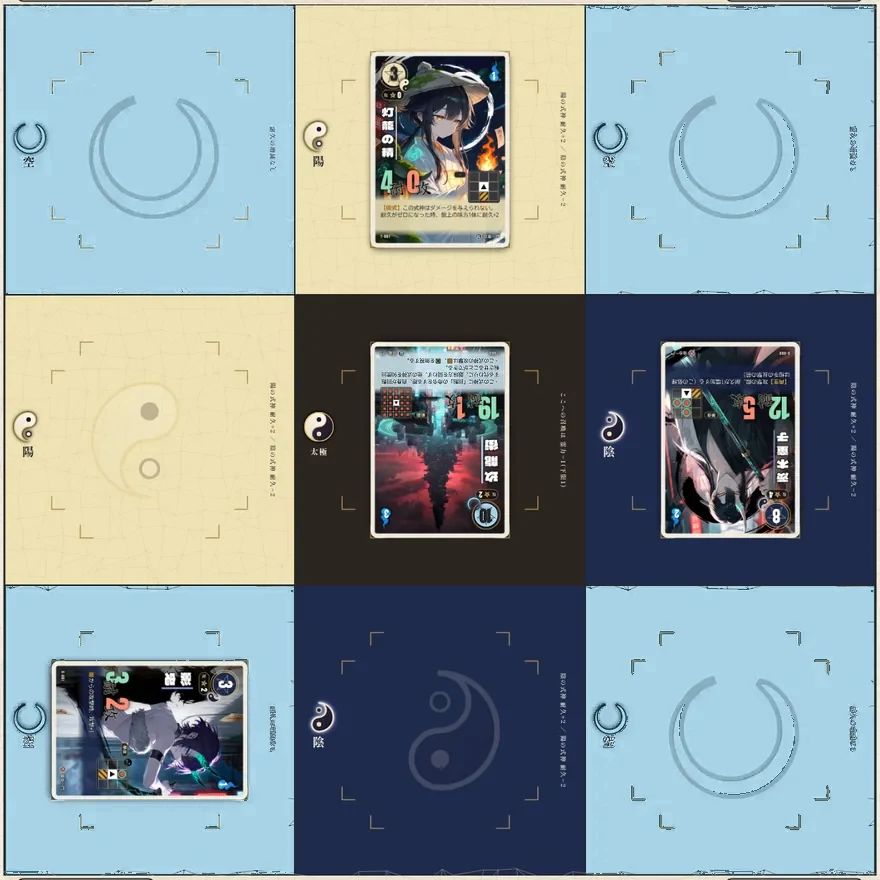
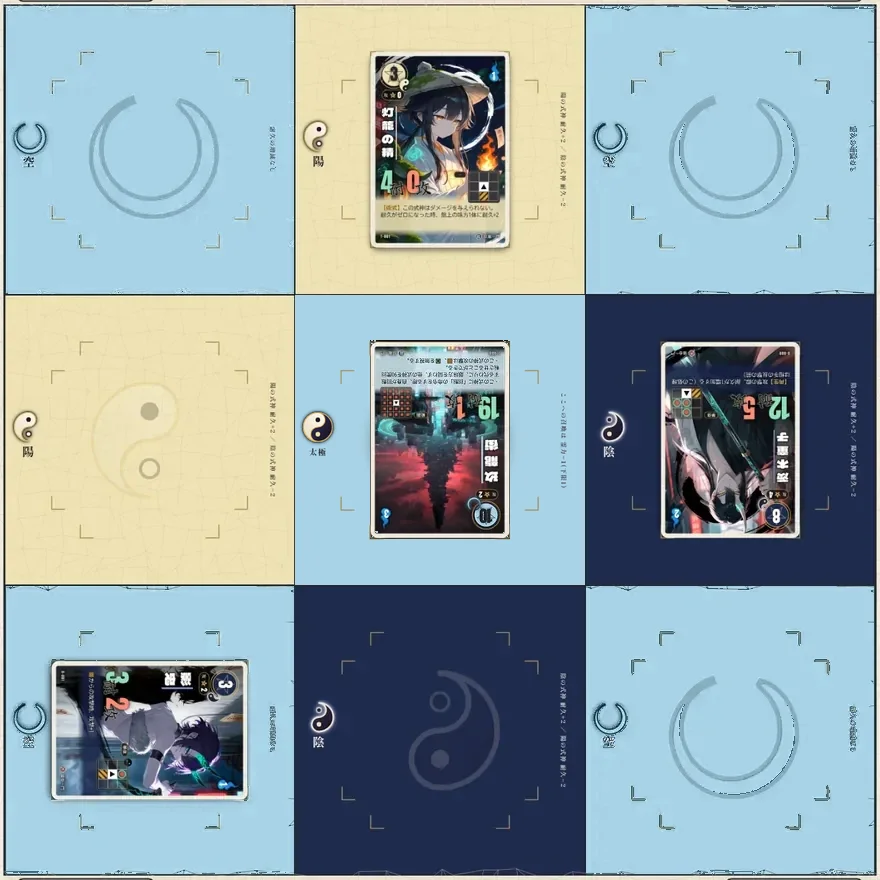
feat: 歓迎ページにお礼の手紙を足し、九宮盤の太極のマスを空と同じ色にそろえた
お礼の手紙(開発チームより)に、調整版で試行錯誤してきた話を入れた。
盤は11/10の1110a決定に合わせ、紙の盤の太極のマス(board/taiji.webp)とトップの盤の絵(site/board-play.webp)を空の水色に、
漆の盤(テスト卓)の太極の地を空と同じにした。

Claude-Session: https://claude.ai/code/session_01AZRZfPfzabCumbTpHPFUpt

Changed region(s): [[0.3375, 0.3375, 0.675, 0.675]]

diff --git a/sim2/play/supporter.html b/sim2/play/supporter.html
@@ -42,6 +42,20 @@
   </div>
 </section>
 
+<section class="w-sec s-letter-sec" aria-labelledby="s-letter-h">
+  <div class="s-letter">
+    <h2 id="s-letter-h"><span class="w-sec-kicker">開発チームより</span>この盤の向こうにいる、あなたへ。</h2>
+    <p>式神符陣のクラウドファンディングにご支援いただき、本当にありがとうございます。</p>
+    <p>式神符陣は、数人の仲間で、仕事のあいまや夜の時間を持ち寄って作ってきたゲームです。九つのマスに式神を一体ずつ置き、向きを考え、隙を突かれないかと迷う。そんな一手の重さを、紙のカードと九宮盤で手渡したくて、ここまで続けてきました。</p>
+    <p>そのゲームを「遊んでみたい」と思い、実際に応援してくださる方がいる。それが、私たちにとって何よりの励みです。いただいたご支援は、製品版のカード・九宮盤・箱をお届けするために、大切に使わせていただきます。</p>
+    <p>そして、このページの先にあるのは、私たちがずっと調整に使ってきた作業場そのものです。</p>
+    <p>霊力はいくつから始めるか。向きを変えるのに霊力をいくつ払うか。召喚したその場で攻撃させるか。この式神の耐久は、あと1つ多いか、少ないか。夜中に「これならどうだ」と数字を変えては指し、負けては悩み、また直す。数えきれないほどの案をこの盤の上で試し、ボツにし、少しずつ今の形にたどり着きました。設定の画面にずらりと並ぶ項目は、その試行錯誤の跡です。</p>
+    <p>その作業場を、今回ご支援くださった皆さまにだけ開きます。ルールやカードの数字を、どうぞ自由に変えてみてください。私たちが選ばなかった道の先に、もっと面白い式神符陣があるかもしれません。「強すぎる」「この式神が好き」「ここが分かりにくい」、どんな声でもうれしいです。いただいた声は、製品版の形に必ず活かします。</p>
+    <p>製品版をお届けするその日まで、ここで一緒に盤を囲んでいただけたら嬉しいです。</p>
+    <p class="s-sign">式神符陣 開発チーム 一同</p>
+  </div>
+</section>
+
 <section class="w-sec" aria-labelledby="s-can">
   <h2 id="s-can"><span class="w-sec-kicker">この版でできること</span>遊ぶ、変える、見る。</h2>
   <ol class="w-steps">

diff --git a/sim2/play/table.css b/sim2/play/table.css
@@ -37,7 +37,8 @@
   --lq-void: linear-gradient(160deg, #1e1b18, #131110);
   --lq-yin: linear-gradient(160deg, #1c2339, #10131d);
   --lq-yang: linear-gradient(160deg, #3b2418, #20140d);
-  --lq-taiji: radial-gradient(circle at 50% 50%, #241e16, #0f0d0b 72%);
+  /* 11/10: the 太極 cell takes the 空 ground (the paper board's 1110a decision) */
+  --lq-taiji: var(--lq-void);
   /* the placeholder face: ink-wash ground (shikigami: indigo, reigu: umber) */
   --glyph-ground: radial-gradient(120% 80% at 50% 110%, oklch(78% 0.1 85 / 0.14), transparent 60%), radial-gradient(120% 90% at 50% 26%, #2b3453 0%, #161b2b 55%, #0c0e15 100%);
   --glyph-ground-reigu: radial-gradient(120% 80% at 50% 110%, oklch(78% 0.1 85 / 0.18), transparent 60%), radial-gradient(120% 90% at 50% 26%, #4a3a26 0%, #2a2016 55%, #120e0a 100%);

diff --git a/sim2/play/supporter.css b/sim2/play/supporter.css
@@ -4,3 +4,7 @@
 .s-go { margin: 10px 0 0; font-size: 14px; }
 .s-go a { color: var(--gold); margin-right: 1em; }
 .w-foot p + p { margin-top: 6px; }
+.s-letter { max-width: 40em; margin: 0 auto; padding: 36px clamp(20px, 5vw, 48px); border: 1px solid var(--gold-line); border-radius: 8px; background: var(--lacquer); }
+.s-letter h2 { margin-top: 0; }
+.s-letter p { margin: 0 0 1.1em; color: var(--text); font-size: 16.5px; line-height: 2; }
+.s-letter .s-sign { margin: 1.6em 0 0; text-align: right; font-family: var(--font-mincho); font-weight: 700; color: var(--gold); letter-spacing: 0.08em; }
